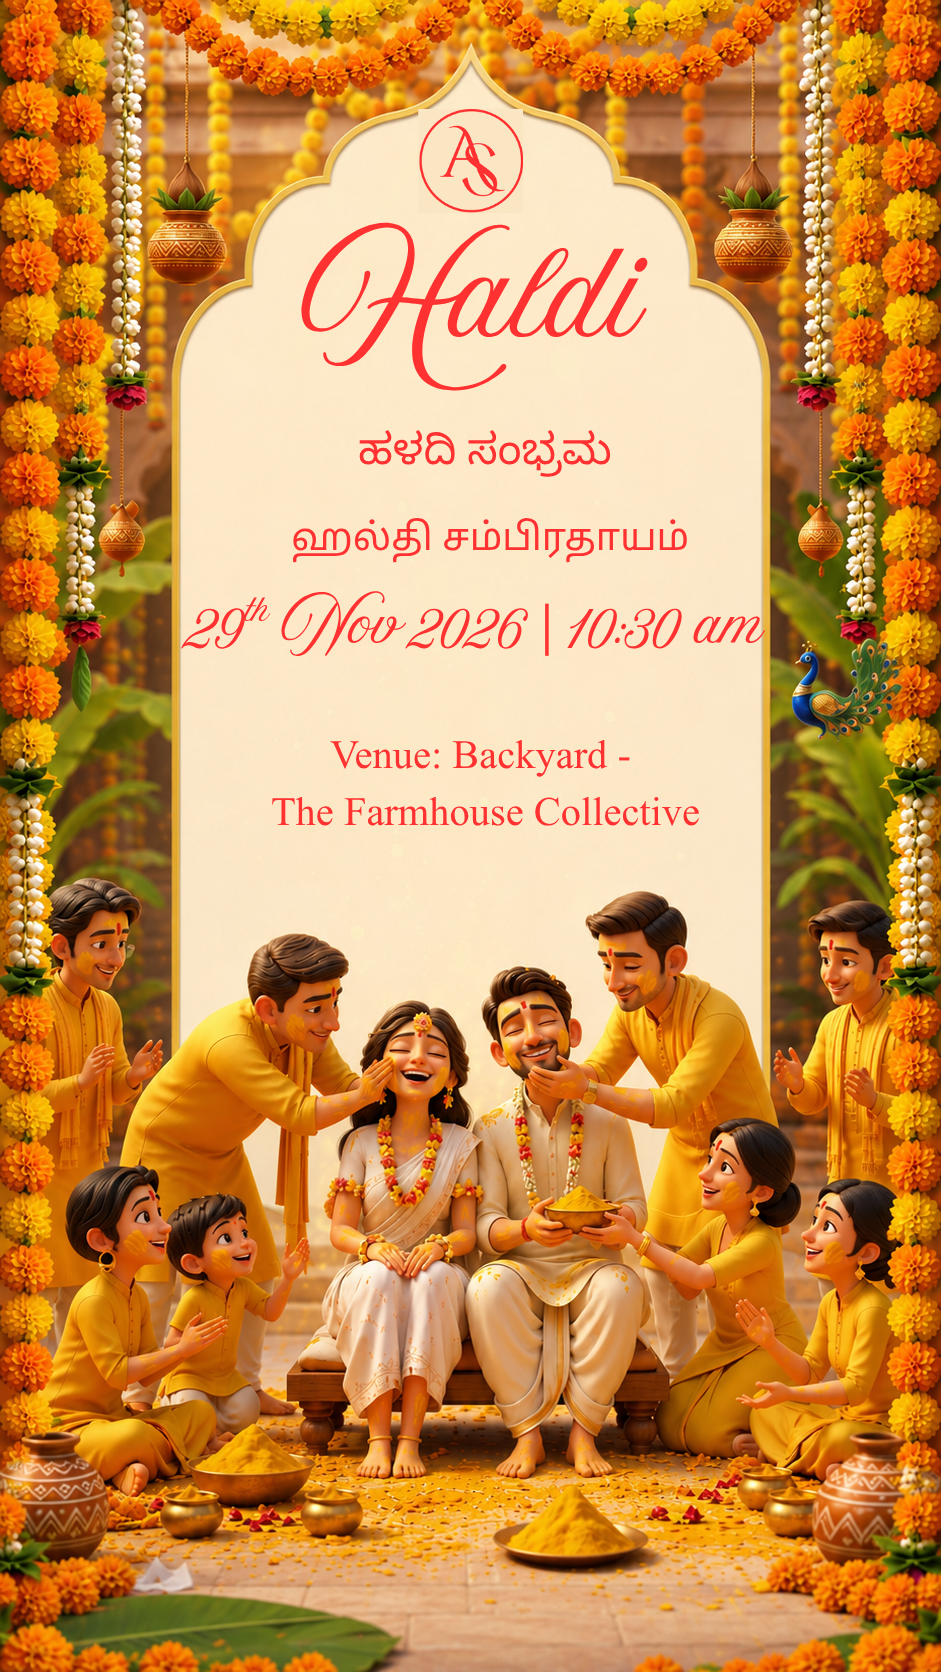
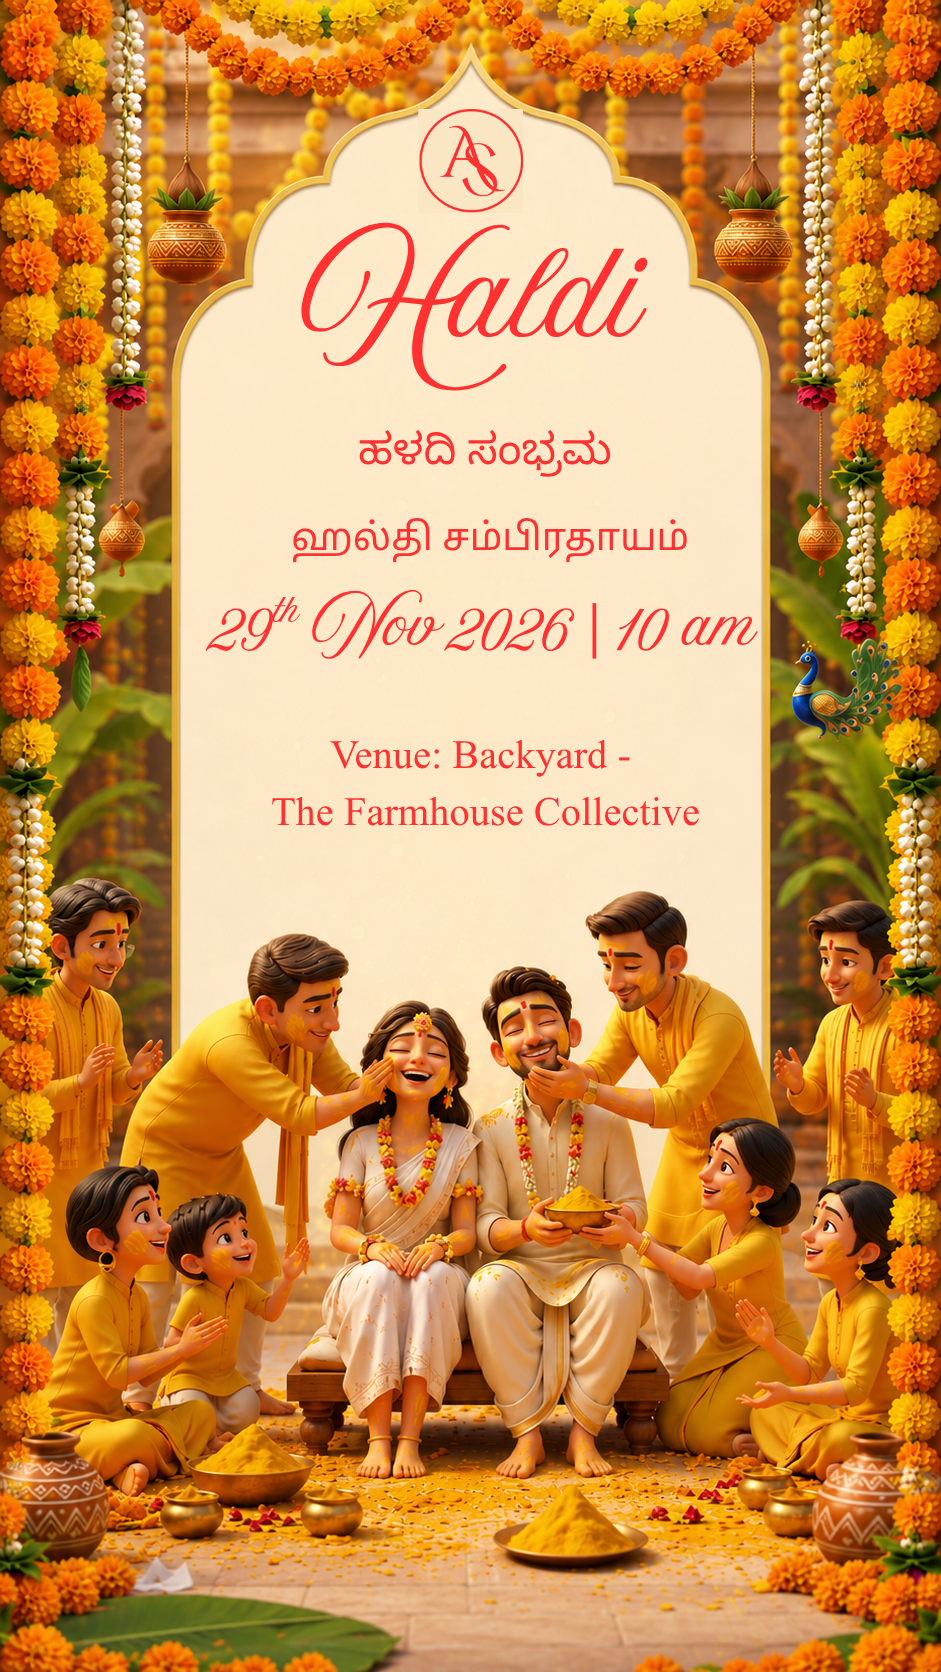
Mehendi and Devarasamaradhane cards (#36)

Changed region(s): [[0.1849, 0.3421, 0.8013, 0.4043]]

diff --git a/src/data/events.ts b/src/data/events.ts
@@ -19,12 +19,12 @@ export interface ScratchTheme {
   curtain?: boolean;
 }
 
-export const ALL_EVENTS: WeddingEvent[] = [
+const EXISTING_EVENTS: WeddingEvent[] = [
   {
     id: "haldi",
     icon: "🌻",
     name: "Haldi",
-    when: "Sunday, 29 Nov 2026\n10:30 AM – 3 PM",
+    when: "Sunday, 29 Nov 2026\n10 AM – 3 PM",
     where: "The backyard, Farmhouse Collective",
   },
   {
@@ -57,6 +57,29 @@ export const ALL_EVENTS: WeddingEvent[] = [
   },
 ];
 
+const DECEMBER_3_EVENTS: WeddingEvent[] = [
+  {
+    id: "devarasamaradhane",
+    icon: "🪔",
+    name: "Devarasamaradhane",
+    when: "Thursday, 3 Dec 2026\n9:30 AM",
+    where: "313, SMR Vinay Harmony, Banaswadi Main Road",
+  },
+  {
+    id: "mehendi",
+    icon: "🌿",
+    name: "Mehendi",
+    when: "Thursday, 3 Dec 2026\n3 PM",
+    where: "313, SMR Vinay Harmony, Banaswadi Main Road",
+  },
+];
+
+export const ALL_EVENTS: WeddingEvent[] = [
+  ...EXISTING_EVENTS.slice(0, 1),
+  ...DECEMBER_3_EVENTS,
+  ...EXISTING_EVENTS.slice(1),
+];
+
 export interface EventInfoSection {
   title: string;
   body: string;
@@ -67,6 +90,14 @@ export const EVENT_INFO: Record<string, string[]> = {
   haldi: [
     "A little turmeric, lots of laughter, and blessings from our families. Haldi is a simple and joyful way to begin the wedding celebrations, with loved ones coming together to apply turmeric and share their blessings with us.",
     "It's one of those traditions that brings everyone together before the big day, with plenty of laughter, photos, and a little bit of turmeric everywhere.",
+  ],
+  devarasamaradhane: [
+    "A devotional gathering with our families to seek blessings as the wedding celebrations begin.",
+    "We look forward to sharing this meaningful morning with you.",
+  ],
+  mehendi: [
+    "An afternoon of celebration as we gather with family and friends for Mehendi.",
+    "Join us for a joyful time together as the wedding festivities continue.",
   ],
   varapooje: [
     "A special welcome to the groom and his family as our two families come together. Varapooje is a traditional ceremony where the bride's family welcomes the groom and celebrates his arrival.",
@@ -110,6 +141,8 @@ export const EVENT_INFO_SECTIONS: Record<string, EventInfoSection[]> = {
 
 export const CARD_MESSAGES: Record<string, string> = {
   haldi: "Join us to celebrate our Haldi ceremony!",
+  devarasamaradhane: "Join us for Devarasamaradhane",
+  mehendi: "Join us to celebrate our Mehendi!",
   varapooje: "Bless us at our Varapooje",
   sangeeth: "Dance the night away at our Sangeeth",
   muhurtham: "Witness us tie the knot at our Muhurtham",
@@ -124,7 +157,8 @@ export type GuestTier =
   | "core"
   | "muhurtham-reception"
   | "sangeeth-muhurtham-reception"
-  | "no-varapooje";
+  | "no-varapooje"
+  | "dec-3";
 
 /**
  * Share the matching URL hash with each guest group:
@@ -134,6 +168,7 @@ export type GuestTier =
  *   Muhurtham + Reception only →  …/invitation/#wt5jc
  *   Sangeeth + Muhurtham + Reception only →  …/invitation/#smr26
  *   No Varapooje      →  …/invitation/#hb3nx  (Haldi, Sangeeth, Muhurtham, Reception)
+ *   All events, including Dec 3 →  …/invitation/#dec3
  */
 export const GUEST_TOKENS: Record<string, GuestTier> = {
   xk9mv: "all",
@@ -142,26 +177,31 @@ export const GUEST_TOKENS: Record<string, GuestTier> = {
   wt5jc: "muhurtham-reception",
   smr26: "sangeeth-muhurtham-reception",
   hb3nx: "no-varapooje",
+  dec3: "dec-3",
 };
 
 export function getEventsForTier(tier: GuestTier): WeddingEvent[] {
-  if (tier === "no-haldi") return ALL_EVENTS.filter((e) => e.id !== "haldi");
+  if (tier === "dec-3") return ALL_EVENTS;
+  if (tier === "no-haldi")
+    return EXISTING_EVENTS.filter((e) => e.id !== "haldi");
   if (tier === "core")
-    return ALL_EVENTS.filter((e) => e.id !== "haldi" && e.id !== "varapooje");
+    return EXISTING_EVENTS.filter(
+      (e) => e.id !== "haldi" && e.id !== "varapooje",
+    );
   if (tier === "muhurtham-reception")
-    return ALL_EVENTS.filter(
+    return EXISTING_EVENTS.filter(
       (e) => e.id === "muhurtham" || e.id === "reception",
     );
   if (tier === "sangeeth-muhurtham-reception")
-    return ALL_EVENTS.filter(
+    return EXISTING_EVENTS.filter(
       (e) =>
         e.id === "sangeeth" ||
         e.id === "muhurtham" ||
         e.id === "reception",
     );
   if (tier === "no-varapooje")
-    return ALL_EVENTS.filter((e) => e.id !== "varapooje");
-  return ALL_EVENTS;
+    return EXISTING_EVENTS.filter((e) => e.id !== "varapooje");
+  return EXISTING_EVENTS;
 }
 
 /** Resolved Vite asset URLs — swap images in src/assets/cards/ */
@@ -172,6 +212,16 @@ export const SCRATCH_THEMES: Record<string, ScratchTheme> = {
     stops: ["#e7b53f", "#d99b22", "#c98415"],
     speck: [190, 130, 25],
     hint: "Rub off the turmeric",
+  },
+  devarasamaradhane: {
+    stops: ["#c88a38", "#b87328", "#99551f"],
+    speck: [160, 105, 35],
+    hint: "Rub to reveal",
+  },
+  mehendi: {
+    stops: ["#67854a", "#4e713d", "#345b33"],
+    speck: [75, 110, 50],
+    hint: "Rub to reveal",
   },
   varapooje: {
     flowers: true,

diff --git a/src/App.tsx b/src/App.tsx
@@ -15,6 +15,7 @@ import NotInvited from "./components/NotInvited";
 import { WEDDING } from "./data/config";
 
 const WEDDING_DAY_EVENT_IDS = new Set(["muhurtham", "reception"]);
+const DECEMBER_3_EVENT_IDS = new Set(["devarasamaradhane", "mehendi"]);
 
 export default function App() {
   const events = useMemo(() => {
@@ -52,9 +53,17 @@ export default function App() {
   // All hooks must run before this — early return happens after
   if (!events) return <NotInvited />;
 
-  const dateLabel = events.every((e) => WEDDING_DAY_EVENT_IDS.has(e.id))
-    ? WEDDING.weddingDayLabel
-    : WEDDING.dateLabel;
+  const includesDecember3Events = events.some((e) =>
+    DECEMBER_3_EVENT_IDS.has(e.id),
+  );
+  const dateLabel = includesDecember3Events
+    ? "29th November, 3rd, 5th & 6th December 2026"
+    : events.every((e) => WEDDING_DAY_EVENT_IDS.has(e.id))
+      ? WEDDING.weddingDayLabel
+      : WEDDING.dateLabel;
+  const venueLabel = includesDecember3Events
+    ? "Multiple venues"
+    : WEDDING.venue;
 
   return (
     <>
@@ -69,7 +78,7 @@ export default function App() {
 
       {revealed && (
         <main id="invitation">
-          <Hero dateLabel={dateLabel} />
+          <Hero dateLabel={dateLabel} venueLabel={venueLabel} />
           <EventTimeline
             events={events}
             onCardOpen={setLightboxEvent}

diff --git a/src/components/hero/Hero.tsx b/src/components/hero/Hero.tsx
@@ -1,9 +1,15 @@
-import { COUPLE, HERO, WEDDING } from "../../data/config";
+import { COUPLE, HERO } from "../../data/config";
 import { useReveal } from "../../hooks/useReveal";
 
 const THORANAM_COUNT = 15;
 
-export default function Hero({ dateLabel }: { dateLabel: string }) {
+export default function Hero({
+  dateLabel,
+  venueLabel,
+}: {
+  dateLabel: string;
+  venueLabel: string;
+}) {
   const eyebrow = useReveal();
   const tagline = useReveal();
   const couple = useReveal();
@@ -62,7 +68,7 @@ export default function Hero({ dateLabel }: { dateLabel: string }) {
           </svg>
         </div>
         <p className="date-big">{dateLabel}</p>
-        <p className="venue-line">{WEDDING.venue}</p>
+        <p className="venue-line">{venueLabel}</p>
       </div>
 
       <a

diff --git a/src/data/config.ts b/src/data/config.ts
@@ -36,7 +36,7 @@ export interface Venue {
   icon: string;
   name: string;
   mapsUrl: string;
-  parking: string;
+  parking?: string;
   transit?: string;
   /** Optional clarifying note shown under the venue details */
   note?: string;
@@ -52,6 +52,13 @@ export const LOCATIONS: Venue[] = [
     parking: "Car parking available",
     note: "This location is only for the Haldi event",
     eventIds: ["haldi"],
+  },
+  {
+    icon: "🪔",
+    name: "313, SMR Vinay Harmony, Banaswadi Main Road",
+    mapsUrl: "https://maps.app.goo.gl/3ARZkFiycdASBKD6A",
+    note: "This location is only for Devarasamaradhane and Mehendi",
+    eventIds: ["devarasamaradhane", "mehendi"],
   },
   {
     icon: "🕉",

diff --git a/src/assets/cards/index.ts b/src/assets/cards/index.ts
@@ -1,4 +1,6 @@
 import haldi from "./card_haldi.png";
+import devarasamaradhane from "./card_devarasamaradhane.png";
+import mehendi from "./card_mehendi.png";
 import varapooje from "./card_varapooje.png";
 import sangeeth from "./card_sangeeth.png";
 import muhurtham from "./card_muhurtham.png";
@@ -7,6 +9,8 @@ import reception from "./card_reception.png";
 /** Resolved URLs for all event card images — edit images in src/assets/cards/ */
 export const CARD_IMAGE_URLS: Record<string, string> = {
   haldi,
+  devarasamaradhane,
+  mehendi,
   varapooje,
   sangeeth,
   muhurtham,

diff --git a/src/components/Location.tsx b/src/components/Location.tsx
@@ -41,7 +41,9 @@ export default function Location({ events }: Props) {
             >
               📍 Open in Maps
             </a>
-            <p className="location-detail">🚗 {venue.parking}</p>
+            {venue.parking && (
+              <p className="location-detail">🚗 {venue.parking}</p>
+            )}
             {venue.transit && (
               <p className="location-detail">🚇 {venue.transit}</p>
             )}

diff --git a/script.js b/script.js
@@ -17,7 +17,7 @@ const ALL_EVENTS = [
     id: "haldi",
     icon: "🌻",
     name: "Haldi",
-    when: "Sunday, 29 Nov 2026 · 10:30 AM – 3 PM",
+    when: "Sunday, 29 Nov 2026 · 10 AM – 3 PM",
     where: "The backyard, Farmhouse Collective",
   },
   {

diff --git a/README.md b/README.md
@@ -14,7 +14,7 @@ A digital wedding invitation built with React, TypeScript, and Vite.
 
 | Event        | Date & Time                                                  | Venue                              |
 | ------------ | ------------------------------------------------------------ | ---------------------------------- |
-| 🌻 Haldi     | Sun, 29 Nov 2026 · 10:30 AM – 3 PM                           | The backyard, Farmhouse Collective |
+| 🌻 Haldi     | Sun, 29 Nov 2026 · 10 AM – 3 PM                              | The backyard, Farmhouse Collective |
 | 🪔 Varapooje | Sat, 5 Dec 2026 · 11 AM                                      | Sindhoor Convention Hall, JP Nagar |
 | 🎶 Sangeeth  | Sat, 5 Dec 2026 · 5 PM                                       | Sindhoor Convention Hall, JP Nagar |
 | 🕉 Muhurtham | Sun, 6 Dec 2026 · Oonjal Ceremony 6:30 AM, Muhurtham 8:44 AM | Sindhoor Convention Hall, JP Nagar |
